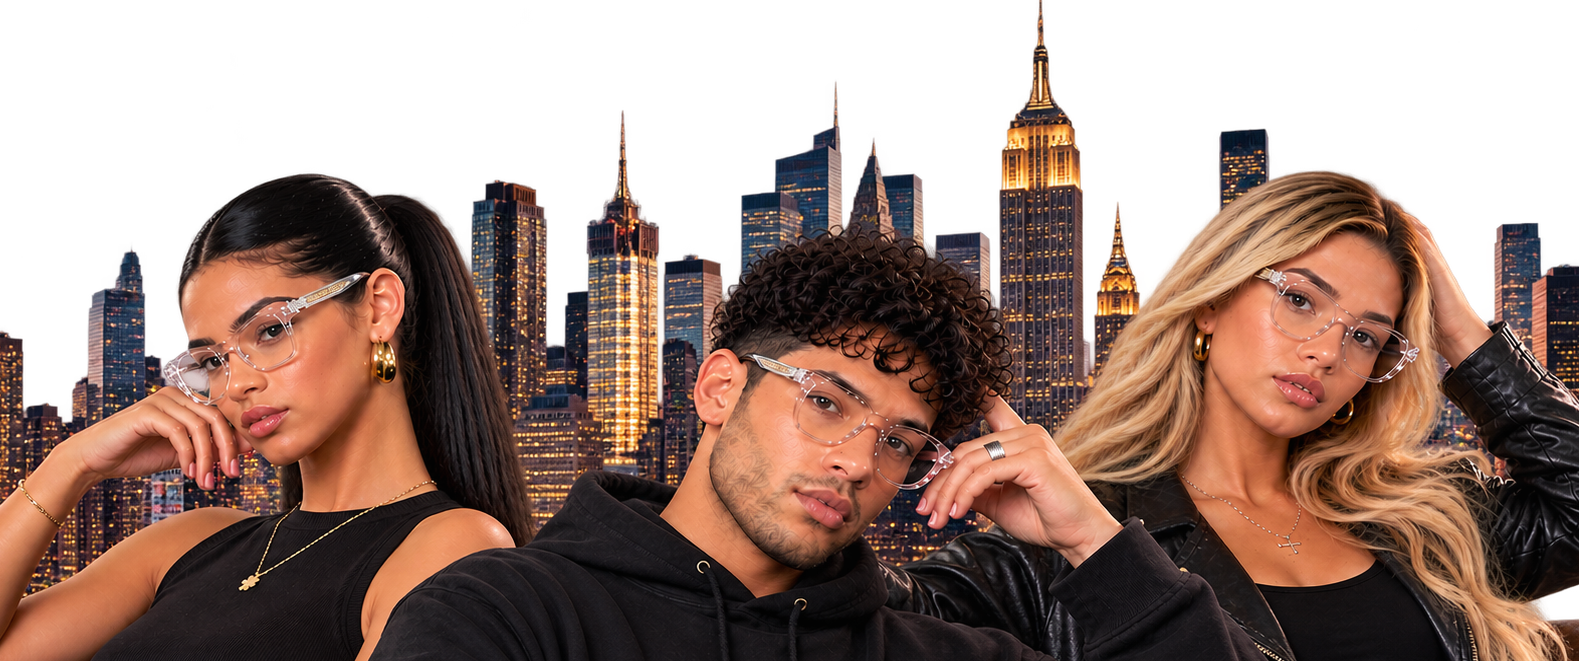
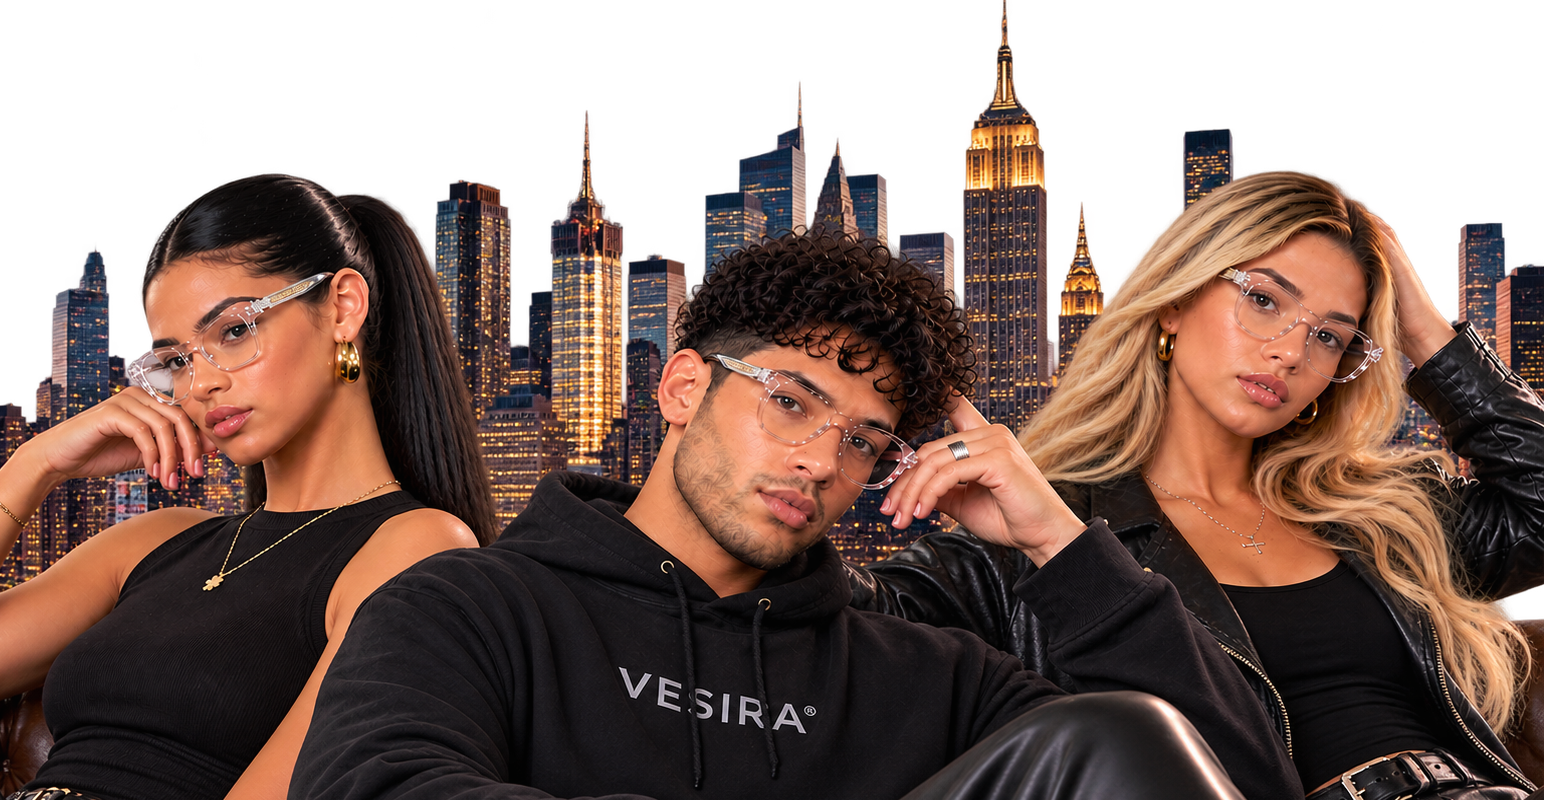
vd

diff --git a/index.html b/index.html
@@ -469,59 +469,42 @@
         ========================= */
 
         .imagen-principal {
-            width:
-                100%;
+    width: 100%;
+    margin-top: -5px;
 
-            margin-top:
-                20px;
+    height: 600px;
+    overflow: hidden;
 
-            overflow:
-                hidden;
+    background: var(--fondo);
 
-            background:
-                var(--fondo);
+    display: flex;
+    justify-content: center;
+    align-items: flex-start;
+}
 
-            display:
-                flex;
+.imagen-principal img {
+    width: 100%;
+    height: auto;
+    display: block;
+}
 
-            justify-content:
-                center;
-        }
 
-
-        .imagen-principal img {
-            width:
-                100%;
-
-            height:
-                auto;
-
-            display:
-                block;
-        }
-
+        
 
         @media (max-width: 700px) {
 
-            .imagen-principal {
-                margin-top:
-                    110px;
-            }
+    .imagen-principal {
+        margin-top: 72px;
+        height: auto;
+        overflow: visible;
+    }
 
+    .imagen-principal img {
+        width: 100%;
+        height: auto;
+    }
 
-            .imagen-principal img {
-                width:
-                    100%;
-
-                height:
-                    auto;
-
-                margin:
-                    0;
-            }
-
-        }
-
+}
 
         /* =========================
            PRODUCTOS
